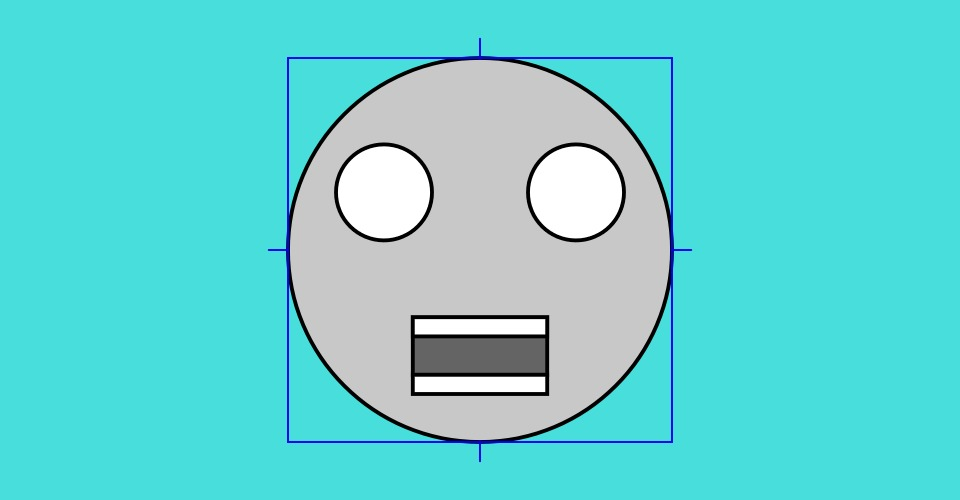
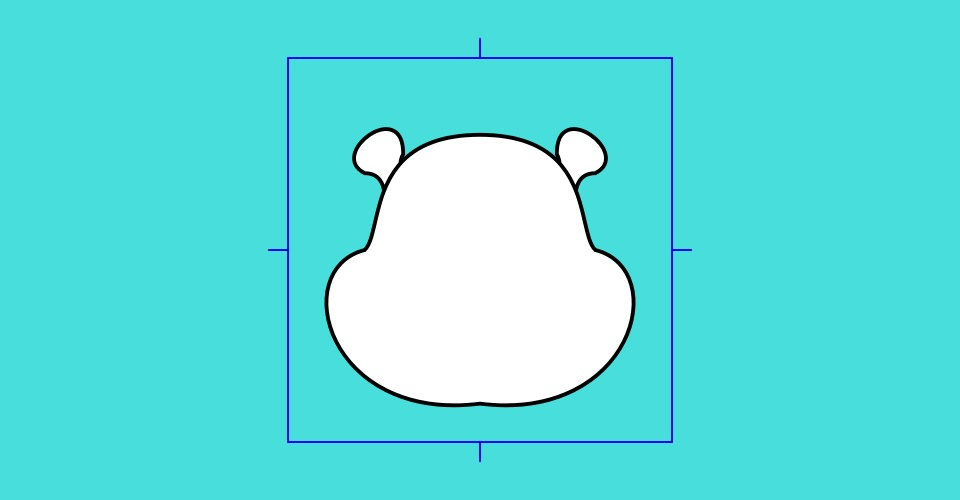
bezier start

Changed region(s): [[0.2812, 0.09, 0.7188, 0.9]]

diff --git a/face_code.js b/face_code.js
@@ -19,30 +19,42 @@
 function myFace(){
   rectMode(CENTER);
   strokeWeight(0.2);
-  fill(200);
-    ellipse(0,0,20);
-    fill(255);
-    ellipse(-5,-3,5);
-    ellipse(5,-3,5);
-    fill(100);
-    rect(0,5,7,3);
-    fill(2555);
-    rect(0,4,7,1);
-    rect(0,7,7,1);
+  // fill(200);
+  //   ellipse(0,0,20);
+  //   fill(255);
+  //   ellipse(-5,-3,5);
+  //   ellipse(5,-3,5);
+  //   fill(100);
+  //   rect(0,5,7,3);
+  //   fill(2555);
+  //   rect(0,4,7,1);
+  //   rect(0,7,7,1);
   
+  beginShape();
+  vertex(-5, -3);
+  bezierVertex(-5, -3, -5, -4, -6, -4);
+  bezierVertex(-8, -5, -4, -8, -4, -5);
+  bezierVertex(-4.5, -4, -3.5, -4, -3.5, -4);
+  endShape();
 
+  beginShape();
+  vertex(5, -3);
+  bezierVertex(5, -3, 5, -4, 6, -4);
+  bezierVertex(8, -5, 4, -8, 4, -5);
+  bezierVertex(4.5, -4, 3.5, -4, 3.5, -4);
+  endShape();
 
-  // beginShape();
-  // vertex(-6, 0);
-  // bezierVertex(-5, -1, -6, -6, 0, -6);
-  // bezierVertex(6, -6, 5, -1, 6, 0);
-  // endShape();
+  beginShape();
+  vertex(-6, 0);
+  bezierVertex(-5, -1, -6, -6, 0, -6);
+  bezierVertex(6, -6, 5, -1, 6, 0);
+  endShape();
 
-  // beginShape();
-  // vertex(-6, 0);
-  // bezierVertex(-10, 1, -8, 9, 0, 8);
-  // bezierVertex(8, 9, 10, 1, 6, 0);
-  // endShape();
+  beginShape();
+  vertex(-6, 0);
+  bezierVertex(-10, 1, -8, 9, 0, 8);
+  bezierVertex(8, 9, 10, 1, 6, 0);
+  endShape();
 
 }
 

diff --git a/README.md b/README.md
@@ -3,6 +3,6 @@
 ## 2023 MDDN342 Assignment 2: Randomised Collections
 **This is where you talk about your project!**
 
->Just a test drawing from last week.
+>I want to draw panda faces and I also want to try using bezier curves. There are a lot of numbers to make the curves in the right place. I'll see if I can paramiterize the bezier curves.
 
 
